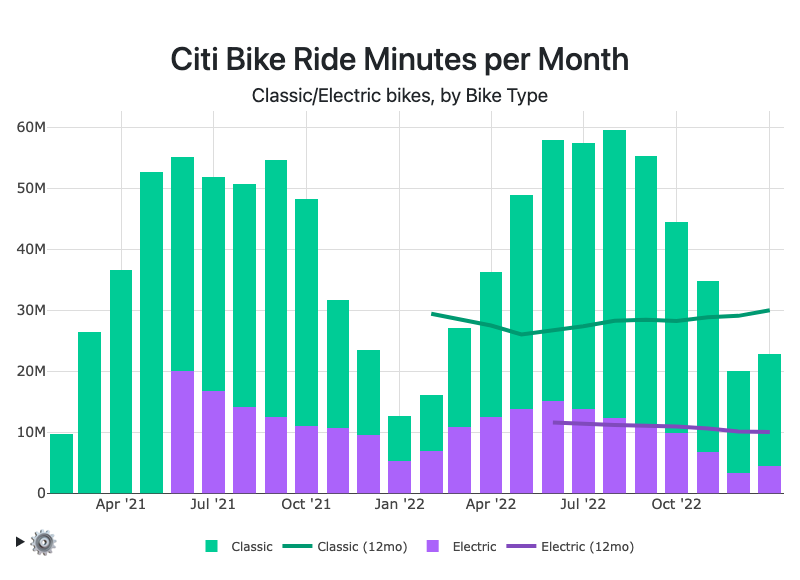
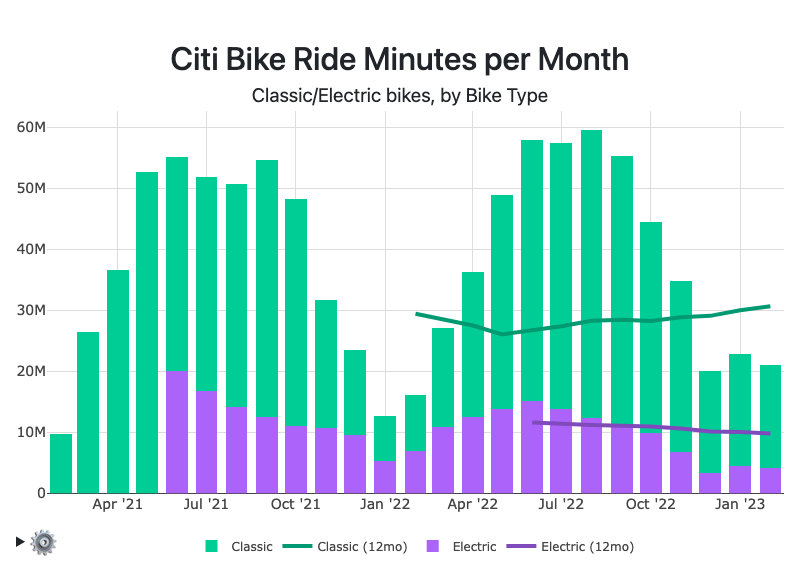
last month, screenshot generation improvements

Changed region(s): [[0.125, 0.2172, 0.9688, 0.9]]

diff --git a/www/pages/index.tsx b/www/pages/index.tsx
@@ -39,10 +39,12 @@ const Tooltip = dynamic(() => import("react-tooltip").then(m => m.Tooltip), { ss
 const {pow} = Math
 
 const JSON_PATH = 'public/assets/ymrgtb_cd.json'
+import {LAST_MONTH_PATH} from "../src/paths";
 
 export async function getStaticProps(context: any) {
     const data = loadSync<Row[]>(JSON_PATH)
-    return { props: { data } }
+    const lastMonthStr = loadSync<string>(LAST_MONTH_PATH)
+    return { props: { data, lastMonthStr } }
 }
 
 type Params = {
@@ -153,7 +155,7 @@ type InitializedPlot = {
 
 type PlotInitialized = { time: number, set: boolean }
 
-export default function App({ data, }: { data: Row[] }) {
+export default function App({ data, lastMonthStr }: { data: Row[], lastMonthStr: string }) {
     const params: Params = {
         y: enumParam('Rides', YAxes),
         u: enumMultiParam(UserTypes, UserTypeQueryStrings, ''),
@@ -165,6 +167,17 @@ export default function App({ data, }: { data: Row[] }) {
         d: dateRangeParam(),
         avg: numberArrayParam([ 12 ]),
     }
+
+    const lastMonthDisplayStr = useMemo(
+        () => {
+            const lastMonthYear = parseInt(lastMonthStr.substring(0, 4))
+            const lastMonthIdx = parseInt(lastMonthStr.substring(4, 6)) - 1
+            const lastMonth = new Date(lastMonthYear, lastMonthIdx)
+            return lastMonth.toLocaleDateString('en-us', { month: "short", year: "numeric" })
+
+        },
+        [ lastMonthStr ]
+    )
 
     const {
         y: [ yAxis, setYAxis ],
@@ -707,7 +720,7 @@ export default function App({ data, }: { data: Row[] }) {
                         <p><a href={"https://github.com/neighbor-ryan/ctbk.dev"} target={"_blank"}>The GitHub repo</a> has more info as well as <a href={"https://github.com/neighbor-ryan/ctbk.dev/issues"} target={"_blank"}>planned enhancements</a>.</p>
                         <hr/>
                         <h3 id={"map"}>Map: Stations + Common Destinations</h3>
-                        <p>Check out <Link href={"./stations"}>this map visualization of stations and their ridership counts in January 2023</Link>.</p>
+                        <p>Check out <Link href={"./stations"}><a>this map visualization of stations and their ridership counts in {lastMonthDisplayStr}</a></Link>.</p>
                         <a href={"./stations"}>
                             <img
                                 className={css.map}

diff --git a/www/screenshots.js b/www/screenshots.js
@@ -1,7 +1,32 @@
+#!/usr/bin/env node
+
 const puppeteer = require('puppeteer');
+const program = require('commander');
+
+const cwd = __dirname
+
+const options =
+    program
+        .option('-h, --host <host or port>', 'Hostname to load screenshots from; numeric <port> is mapped to 127.0.0.1:<port>')
+        .option('-i, --include <regex>', 'Only generate screenshots whose name matches this regex')
+        .parse(process.argv)
+        .opts()
+
+let scheme
+let {host, include} = options
+if (host) {
+    scheme = 'http'
+    if (host.match(/^\d+$/)) {
+        host = `127.0.0.1:${host}`
+    }
+} else {
+    host = 'ctbk.dev'
+    scheme = 'https'
+}
+console.log("host:", host, "includes:", include);
 
 (async () => {
-    const dir = `public/screenshots`
+    const dir = `${cwd}/public/screenshots`
     const screens = {
         'ctbk-rides': { query: '', height: 540, },
         'ctbk-nj': { query: '?r=jh', },
@@ -16,10 +41,14 @@ const puppeteer = require('puppeteer');
 
     const items = Array.from(Object.entries(screens))
     for (let [ name, { query, width, height, selector } ] of items) {
+        if (include && !name.match(include)) {
+            console.log(`Skipping ${name}`)
+            continue
+        }
         width = width || 800
         height = height || 580
         selector = selector || '.plotly svg rect'
-        const url = `https://ctbk.dev/${query}`
+        const url = `${scheme}://${host}/${query}`
         console.log(`Loading ${url}`)
         await page.goto(url);
         console.log(`Loaded ${url}`)

diff --git a/README.md b/README.md
@@ -40,7 +40,7 @@ Jun 2014 - January 2021, the window where 12mo rolling avgs are possible
 [![](www/public/screenshots/ctbk-ebike-minutes.png)][ctbk ebike minutes plot]
 
 ## Prior Art
-[Many][ckran-20210305] [great][toddschneider-20160113] [analyses][jc-analysis-2017] [of][jc-analysis-2018] [Citi Bbike][datastudio-analysis] [data][cl2871-analysis] [have][tableau #citibike] [been][coursera citibike viz course] [done][juanjocarin analysis] over the years!
+[Many][ckran-20210305] [great][toddschneider-20160113] [analyses][jc-analysis-2017] [of][jc-analysis-2018] [Citi Bike][datastudio-analysis] [data][cl2871-analysis] [have][tableau #citibike] [been][coursera citibike viz course] [done][juanjocarin analysis] over the years!
 
 My hope is that this dashboard will:
 - stay up to date automatically
